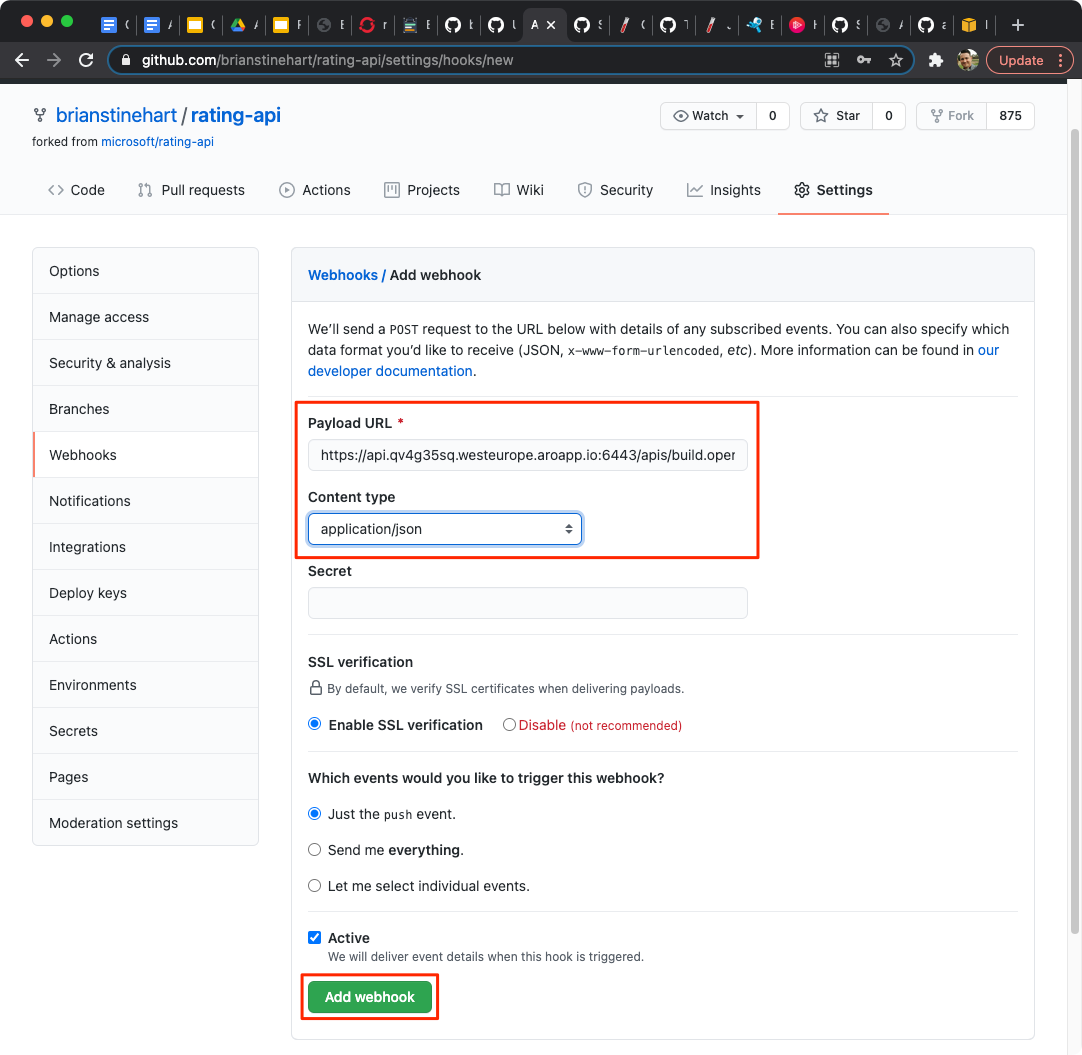
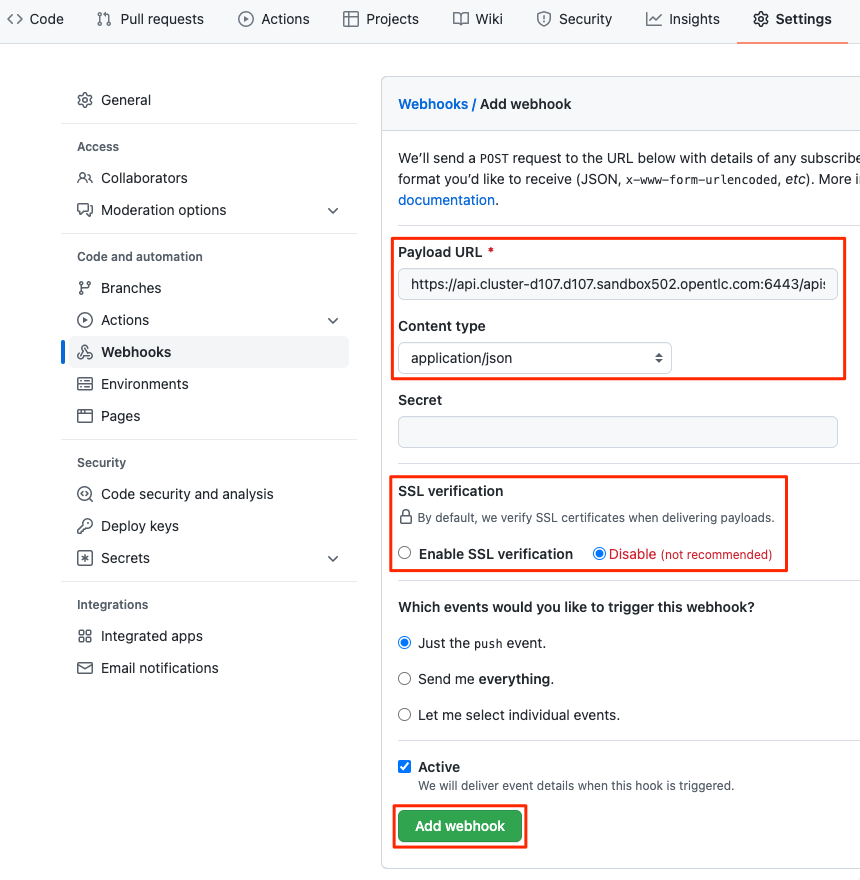
update to api & web

diff --git a/_entries/02-04 api.md b/_entries/02-04 api.md
@@ -117,7 +117,7 @@ oc describe bc/rating-api
 
 Replace the `<secret>` placeholder with the secret you retrieved in the previous step to have a URL similar to `https://api.qv4g35sq.westeurope.aroapp.io:6443/apis/build.openshift.io/v1/namespaces/workshop01/buildconfigs/rating-api/webhooks/zLKX0A_0CQs6qWNwQqpV/github`. You'll use this URL to setup the webhook on your GitHub repository.
 
-In your GitHub repository (e.g. https://github.com/<your GitHub username>/rating-api), navigate to **Settings -> Webhooks** and select **Add Webhook**.
+In your GitHub repository (e.g. `https://github.com/<your GitHub username>/rating-api`), navigate to **Settings -> Webhooks** and select **Add Webhook**.
 
 ![Rating API GitHub webhook navigation](media/rating-api-github-webhook-navigation.png)
 
@@ -129,11 +129,15 @@ Click **Add webhook**.
 
 ![GitHub add webhook](media/rating-api-github-addwebhook.png)
 
-If you click back into the newly created webhook, you should see a message from at the bottom with a green tick under **Recent Deliveries**.
+You will likely see a warning message appear about the effect of disabling SSL verification and its implications. Confirm the setting change, as this is a non-production environment.
+
+![GitHub add webhook warning](media/rating-api-github-addwebhook-warning.png)
+
+If you click back into the newly created webhook, you should see a new tab called **Recent Deliveries** showing a green tick.
 
 ![GitHub webhook success](media/rating-api-webhook-success.png)
 
-> **Note** Because GitHub changes its UI regularly, you might see **Recent Deliveries** in a different location, such as a second tab near the top. You can also refresh the browser after a few moments and you'll see the green tick next to the newly creted webhook.
+> **Note** Because GitHub changes its UI regularly, you might see **Recent Deliveries** in a different location than shown in the screenshot above, such as at the bottom. You can also refresh the browser a few moments after saving the newly created webhook and you'll see the green tick beside it.
 
 ![GitHub webhook success2](media/rating-api-webhook-success2.png)
 

diff --git a/_entries/02-05 web.md b/_entries/02-05 web.md
@@ -117,7 +117,7 @@ oc describe bc/rating-web
 
 Replace the `<secret>` placeholder with the secret you retrieved in the previous step to have a URL similar to `https://api.qv4g35sq.westeurope.aroapp.io:6443/apis/build.openshift.io/v1/namespaces/workshop01/buildconfigs/rating-web/webhooks/VZJewR0m1E65dBAv1IYM/github`. You'll use this URL to setup the webhook on your GitHub repository.
 
-In your GitHub repository (e.g. https://github.com/<your GitHub username>/rating-web), navigate to **Settings -> Webhooks** and select **Add Webhook**.
+In your GitHub repository (e.g. `https://github.com/<your GitHub username>/rating-web`), navigate to **Settings -> Webhooks** and select **Add Webhook**.
 
 Paste the URL output (similar to above) into the Payload URL field.
 
@@ -125,9 +125,17 @@ Change the Content Type from GitHub’s default **application/x-www-form-urlenco
 
 Click **Add webhook**.
 
-![GitHub add webhook](media/rating-web-github-addwebhook.png)
+![GitHub add webhook](media/rating-api-github-addwebhook.png)
 
-If you click back into the newly created webhook, you should see a message from at the bottom with a green tick under **Recent Deliveries**.
+Again, you will likely see a warning message appear about the effect of disabling SSL verification and its implications. Confirm the setting change, as this is a non-production environment.
+
+![GitHub add webhook warning](media/rating-api-github-addwebhook-warning.png)
+
+If you click back into the newly created webhook, you should see a new tab called **Recent Deliveries** showing a green tick.
+
+![GitHub webhook success](media/rating-api-webhook-success.png)
+
+> **Note** Because GitHub changes its UI regularly, you might see **Recent Deliveries** in a different location than shown in the screenshot above, such as at the bottom. You can also refresh the browser a few moments after saving the newly created webhook and you'll see the green tick beside it.
 
 Now whenever you push a change to your GitHub repository a new build will automatically start in OpenShift. After a successful build, a new deployment will be triggered as well.
 
